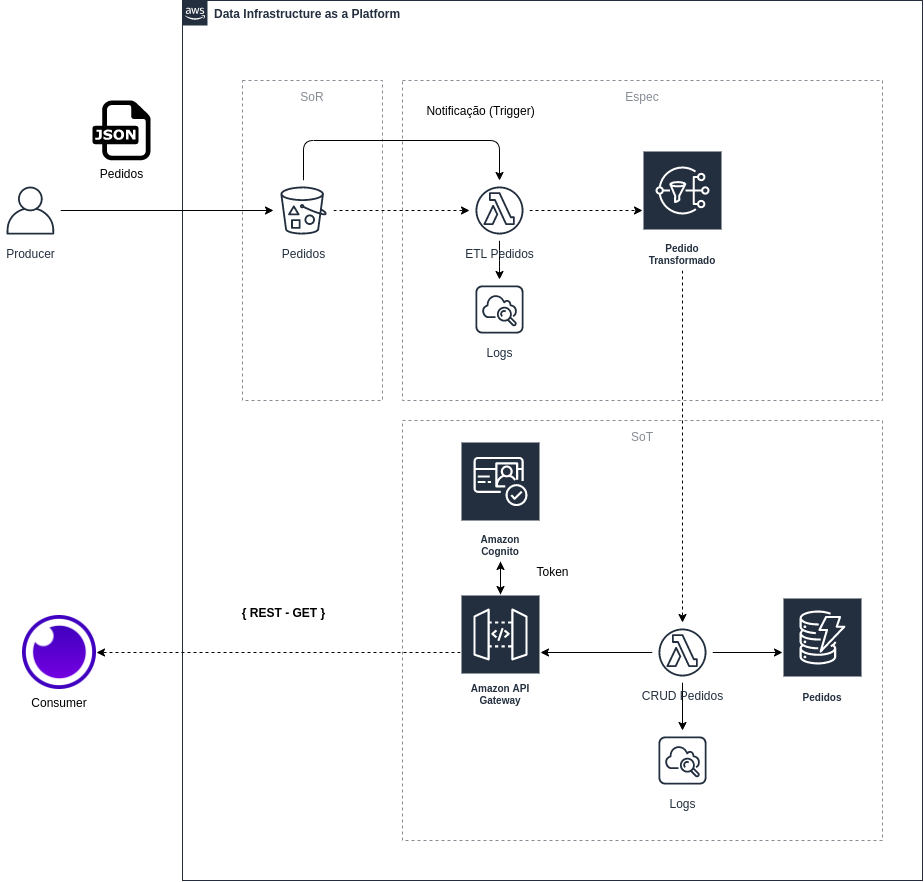
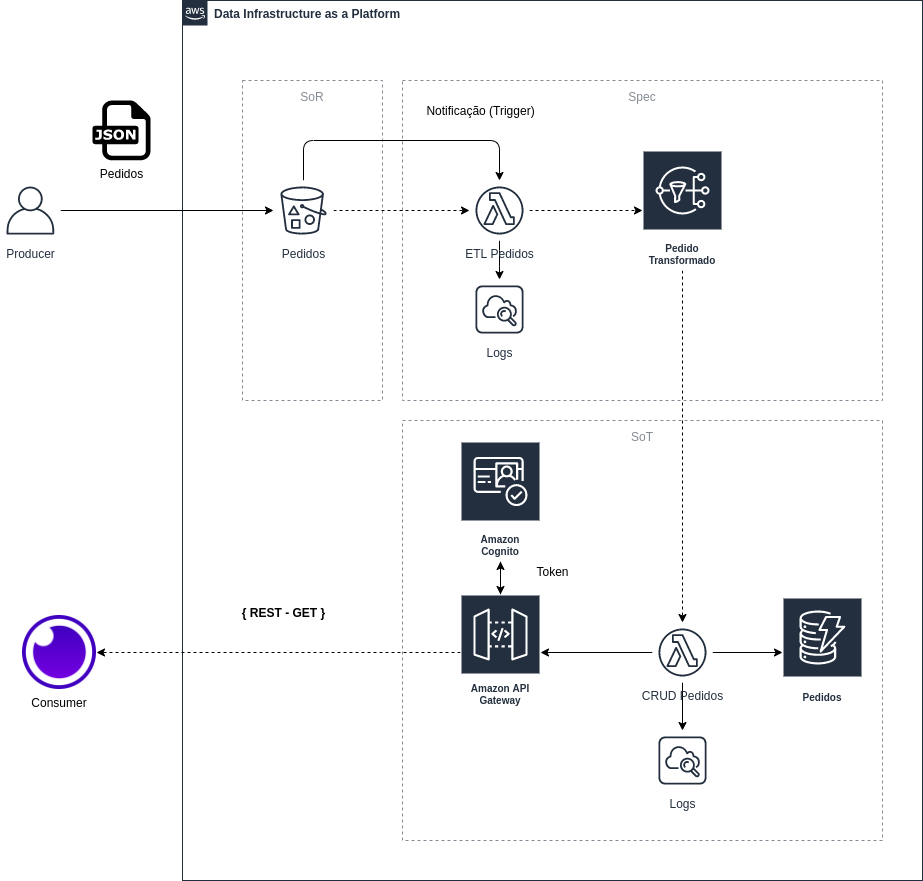
ajustes no schema e readme.md

diff --git a/aws/README.md b/aws/README.md
@@ -5,11 +5,11 @@ Trata-se de uma simulação da transmofação e democratização de dados de ped
 
 ## Camada de Source of Truth (SoT)
 
-Camada responsável por armazenar os dados confiáveis, mantendeo a fonte única dos dados.
+Camada responsável por armazenar os dados brutos e confiáveis em um data mesh. Ela mantém a fonte única e autoritativa dos dados.
 
 ## Camada de Specification (Spec)
 
-Camada que define os contratos e especificações dos dados em um data mesh. Ela descreve a estrutura, formato e semântica dos dados.
+Camada que define os contratos e especificações dos dados em um data mesh. Ela descreve a estrutura e o formato dos dados.
 
 ## Camada de Source of Truth (SoR)
 
